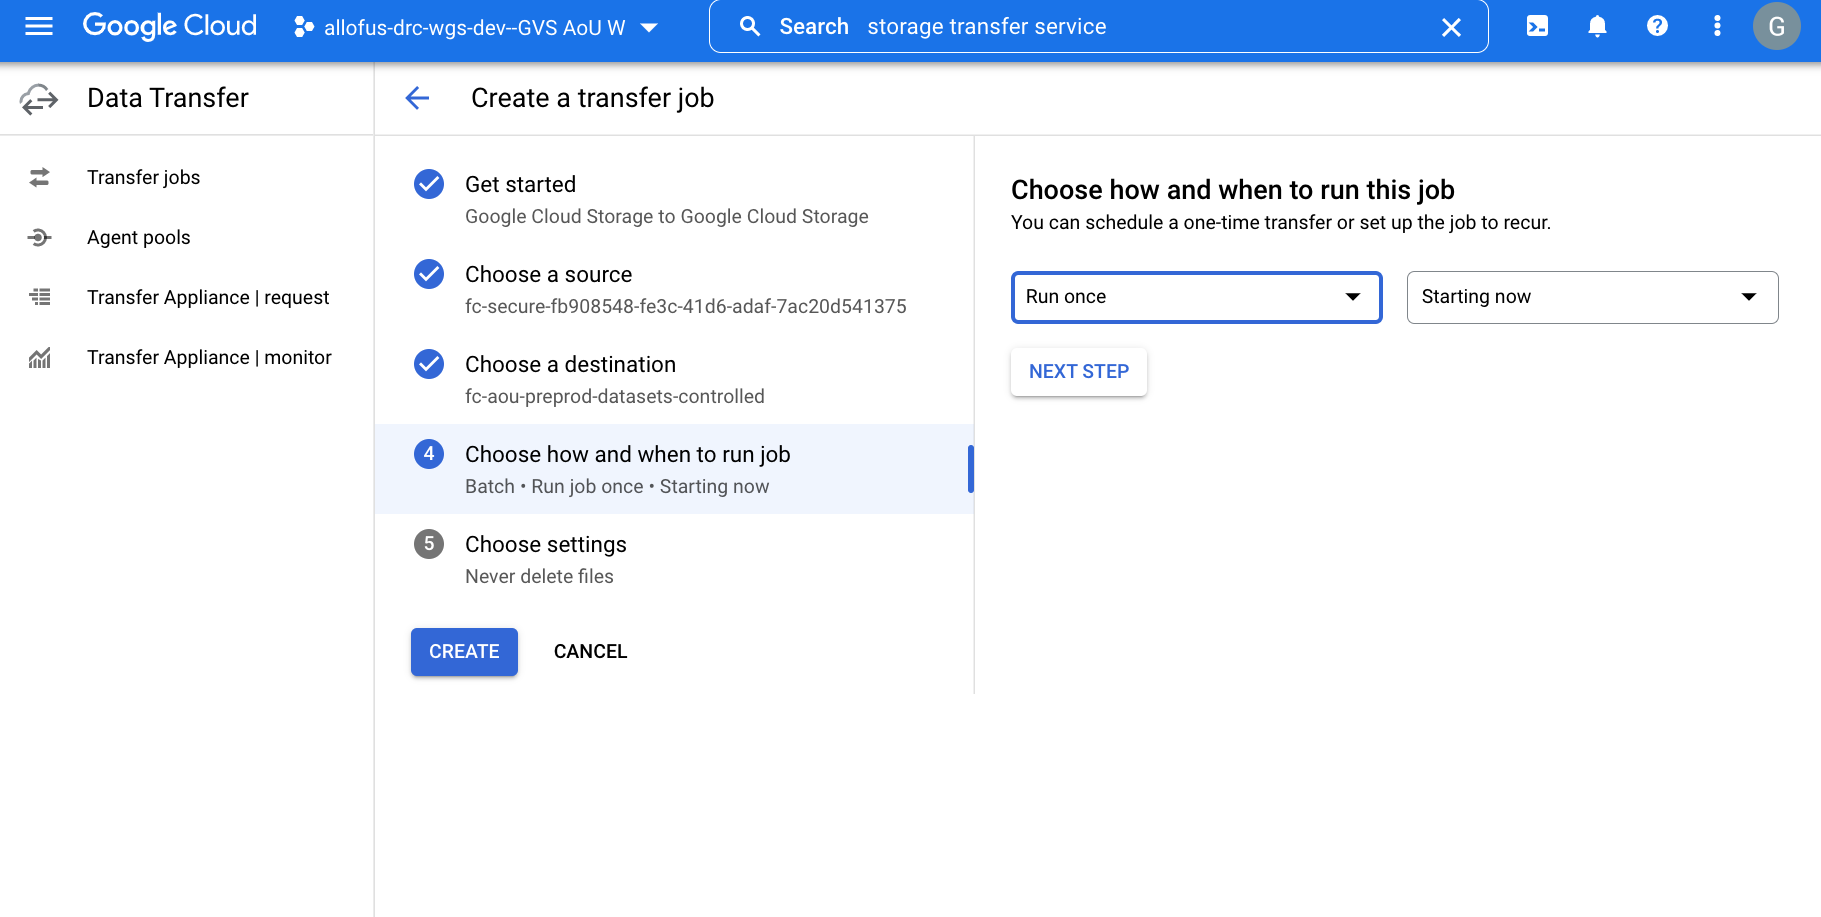
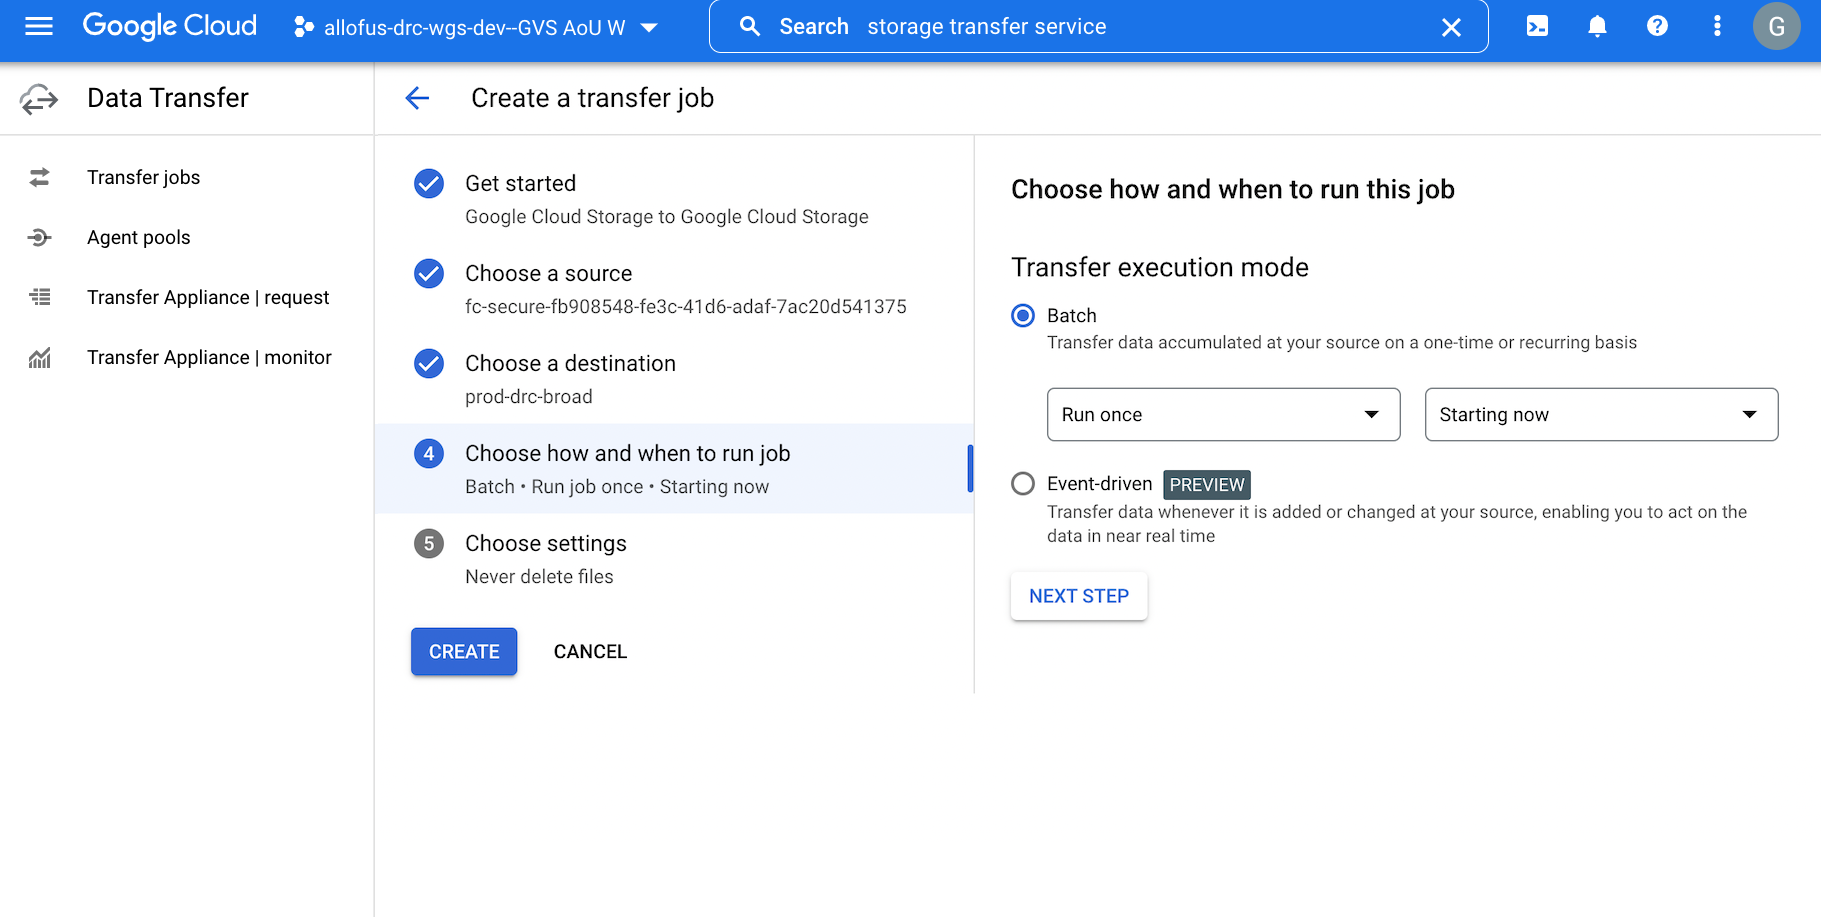
update delivery docs based on latest

diff --git a/scripts/variantstore/docs/aou/vds/delivery/Delivering a VDS.md b/scripts/variantstore/docs/aou/vds/delivery/Delivering a VDS.md
@@ -105,7 +105,7 @@ but must not include the `gs://` prefix. Enter the VDS delivery path as specifie
 
 ![STS Destination](./STS%204.png)
 
-On the next step, take the defaults of "Run once" and "Starting now":
+On the next step, take the defaults of "Batch", "Run once" and "Starting now":
 
 ![STS How and when to run](./STS%205.png)
 
@@ -137,7 +137,7 @@ hour or so to complete. Building on the preceding step, the following snippet va
 
 ```python
 >>> vds_path = "gs://delivery-bucket/delivery-path.vds"
->>> vds = hl.vds.read_vds('vds_path')
+>>> vds = hl.vds.read_vds(vds_path)
 >>> vds.validate()
 ```
 
